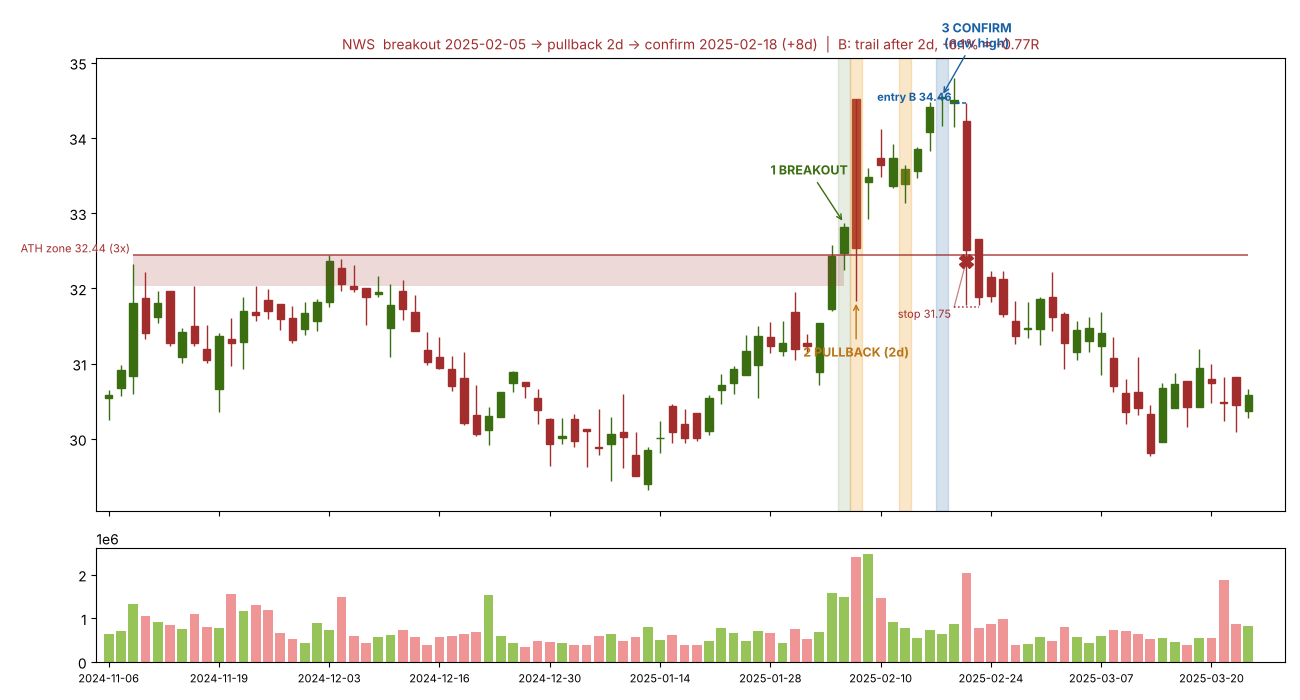
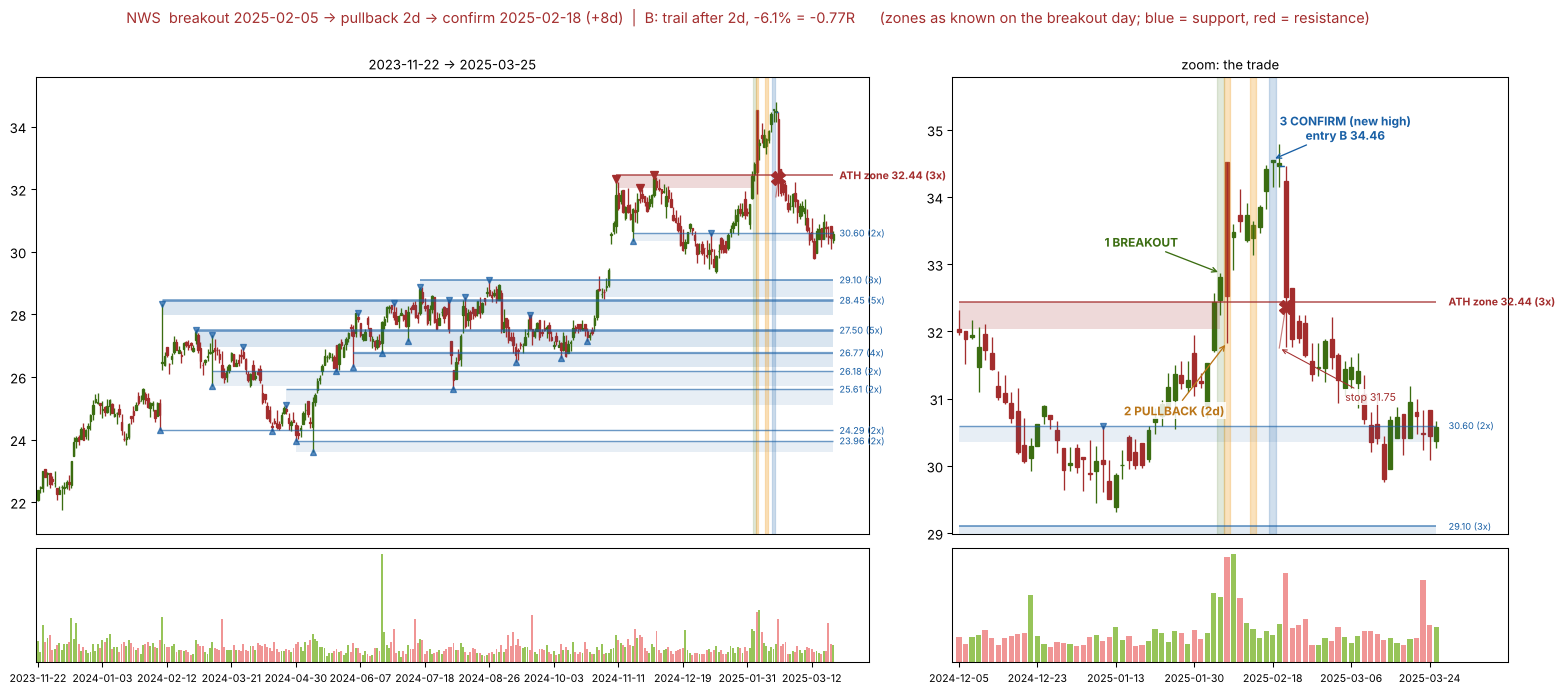
sr_retest_charts: ~15 months of history with all known S/R zones plus a zoom panel on the trade
Claude-Session: https://claude.ai/code/session_0198pJXsk3fxhgSngvdqQB7w

diff --git a/sr_retest_charts.py b/sr_retest_charts.py
@@ -4,7 +4,8 @@ sr_retest_charts.py - גרפים לדוגמה של פריצת שיא כל הזמ
 מסמן: אזור ההתנגדות שנפרץ, יום הפריצה, נרות הפולבק, יום האישור, כניסה B, סטופ B והיציאה (סטופ נגרר 3xATR).
 המדגם אקראי (seed קבוע) מתוך הפריצות שאושרו, כדי להראות גם הצלחות וגם כישלונות ביחס האמיתי.
 
-הרצה:  python sr_retest_charts.py results_retest_900 --n 20 --out sr_charts/retest
+הרצה:  python sr_retest_charts.py results_retest_900 results_retest_600 --n 20 --out sr_charts/retest
+(גרף ארוך של ~15 חודשים עם כל האזורים כפי שהיו ידועים ביום הפריצה + חלון זום על העסקה)
 """
 import argparse
 import os
@@ -19,8 +20,10 @@ import backtest as bt  # noqa: E402
 import sr_levels as sr  # noqa: E402
 import sr_retest as rt  # noqa: E402
 
+WHITE = dict(fc="white", ec="none", alpha=0.85, pad=1)
 
-def chart(tk, date, path, before=60):
+
+def chart(tk, date, path, before=300):
     df = bt.load_history(tk)
     lv = sr.Levels(df)
     atr = lv.atr
@@ -31,52 +34,80 @@ def chart(tk, date, path, before=60):
     stop = pb_low - 0.1 * atr[tc]
     tr = bt.simulate_trade(df, tc, stop, 2.0, rt.HOLD, rt.TRAIL, atr, return_path=True)
     ex = tr["exit_pos"]
-    a, e = max(0, t0 - before), min(len(df), max(ex, tc + 20) + 6)
-    d = df.iloc[a:e]
-    x = lambda i: i - a
-
-    fig, (ax, axv) = plt.subplots(2, 1, figsize=(13, 7), sharex=True, gridspec_kw={"height_ratios": [4, 1]})
-    for i, (o, h, l, c) in enumerate(d[["Open", "High", "Low", "Close"]].values):
-        col = "#3B6D11" if c >= o else "#A32D2D"
-        ax.vlines(i, l, h, color=col, lw=1)
-        ax.add_patch(plt.Rectangle((i - 0.3, min(o, c)), 0.6, max(abs(c - o), 1e-6), color=col))
-    axv.bar(range(len(d)), d["Volume"], color=np.where(d["Close"] >= d["Open"], "#97C459", "#F09595"))
-    x0 = max(L["first"] - a, 0)
-    ax.fill_between([x0, x(t0)], L["bottom"], L["top"], color="#A32D2D", alpha=0.18, lw=0)
-    ax.hlines(L["top"], x0, len(d) - 1, color="#A32D2D", lw=1.2, alpha=0.8)
-    ax.text(x0, L["top"], f"ATH zone {L['top']:.2f} ({L['touches']}x) ", color="#A32D2D", fontsize=8,
-            ha="right", va="bottom")
-    ax.axvspan(x(t0) - 0.5, x(t0) + 0.5, color="#3B6D11", alpha=0.12)
-    for k in pb_days:
-        ax.axvspan(x(k) - 0.5, x(k) + 0.5, color="#EF9F27", alpha=0.25)
-    ax.axvspan(x(tc) - 0.5, x(tc) + 0.5, color="#185FA5", alpha=0.18)
-    hi = df["High"].values
-    ax.annotate("1 BREAKOUT", (x(t0), hi[t0]), xytext=(-25, 35), textcoords="offset points", ha="center",
-                color="#3B6D11", fontweight="bold", fontsize=9, arrowprops=dict(arrowstyle="->", color="#3B6D11"))
-    ax.annotate(f"2 PULLBACK ({len(pb_days)}d)", (x(pb_days[0]), df["Low"].values[pb_days[0]]), xytext=(0, -40),
-                textcoords="offset points", ha="center", color="#BA7517", fontweight="bold", fontsize=9,
-                arrowprops=dict(arrowstyle="->", color="#BA7517"))
-    ax.annotate("3 CONFIRM\n(new high)", (x(tc), hi[tc]), xytext=(25, 35), textcoords="offset points", ha="center",
-                color="#185FA5", fontweight="bold", fontsize=9, arrowprops=dict(arrowstyle="->", color="#185FA5"))
-    end = x(min(ex, len(df) - 1))
-    ax.hlines(tr["entry"], x(tc + 1), end, color="#185FA5", ls="--", lw=1.1)
-    ax.text(x(tc + 1), tr["entry"], f"entry B {tr['entry']:.2f} ", color="#185FA5", fontsize=8, ha="right",
-            va="bottom", fontweight="bold")
-    ax.hlines(stop, x(tc + 1), x(tc + 3), color="#A32D2D", ls=":", lw=1.1)
-    ax.text(x(tc + 1), stop, f"stop {stop:.2f} ", color="#A32D2D", fontsize=8, ha="right", va="top")
-    ts = np.asarray(tr["stop_path"], dtype=float)
-    ax.plot(np.arange(x(tc + 1), x(tc + 1) + len(ts)), ts, color="#A32D2D", lw=0.9, alpha=0.6)
+    ex = min(ex, len(df) - 1)
+    e = min(len(df), max(ex, tc + 20) + 6)
     win = tr["R"] > 0
-    ax.plot(end, tr["exit"], marker="X", ms=10, color="#3B6D11" if win else "#A32D2D", ls="")
-    ax.set_title(f"{tk}  breakout {df.index[t0].date()} -> pullback {len(pb_days)}d -> confirm "
-                 f"{df.index[tc].date()} (+{tc - t0}d)  |  B: {tr['exit_reason']} after {tr['bars']}d, "
-                 f"{tr['ret']:+.1%} = {tr['R']:+.2f}R", fontsize=10, color="#3B6D11" if win else "#A32D2D")
-    ax.set_xlim(-1, len(d) + 2)
-    step = max(1, len(d) // 10)
-    axv.set_xticks(range(0, len(d), step))
-    axv.set_xticklabels([z.strftime("%Y-%m-%d") for z in d.index[::step]], fontsize=8)
-    fig.tight_layout()
-    fig.savefig(path, dpi=100)
+    fig = plt.figure(figsize=(20, 8))
+    gs = fig.add_gridspec(2, 2, width_ratios=[3, 2], height_ratios=[4, 1], wspace=0.12, hspace=0.05)
+    for col_i, (a, detail) in enumerate([(max(0, t0 - before), False), (max(0, t0 - 40), True)]):
+        ax, axv = fig.add_subplot(gs[0, col_i]), fig.add_subplot(gs[1, col_i])
+        d = df.iloc[a:e]
+        x = lambda i: i - a
+        for i, (o, h, l, c) in enumerate(d[["Open", "High", "Low", "Close"]].values):
+            col = "#3B6D11" if c >= o else "#A32D2D"
+            ax.vlines(i, l, h, color=col, lw=1)
+            ax.add_patch(plt.Rectangle((i - 0.3, min(o, c)), 0.6, max(abs(c - o), 1e-6), color=col))
+        axv.bar(range(len(d)), d["Volume"], color=np.where(d["Close"] >= d["Open"], "#97C459", "#F09595"))
+        ylo, yhi = d["Low"].min(), d["High"].max()
+        pad = (yhi - ylo) * 0.06
+        # כל אזורי התמיכה/התנגדות כפי שהיו ידועים ביום הפריצה (חלון של 250 יום), עם נקודות הנגיעה
+        for Z in lv.asof(t0):
+            if Z["touches"] < sr.MIN_TOUCHES or Z["id"] == L["id"] or Z["top"] < ylo - pad or Z["bottom"] > yhi + pad:
+                continue
+            col = "#A32D2D" if Z["bottom"] > df["Close"].values[t0] else "#185FA5"
+            z0 = max(Z["first"] - a, 0)
+            ax.fill_between([z0, len(d) - 1], Z["bottom"], Z["top"], color=col,
+                            alpha=0.06 + 0.02 * min(Z["touches"], 6), lw=0)
+            ax.hlines(Z["top"], z0, len(d) - 1, color=col, lw=0.5 + 0.3 * min(Z["touches"], 6), alpha=0.6)
+            ax.text(len(d) + 0.5, Z["top"], f" {Z['top']:.2f} ({Z['touches']}x)", color=col, fontsize=7, va="center")
+            for i, p, k in Z["pts"]:
+                if i >= a:
+                    ax.plot(i - a, p, marker="v" if k == "H" else "^", color=col, ms=4, ls="", alpha=0.7)
+        for i, p, k in L["pts"]:
+            if i >= a:
+                ax.plot(i - a, p, marker="v" if k == "H" else "^", color="#A32D2D", ms=6, ls="")
+        x0 = max(L["first"] - a, 0)
+        ax.fill_between([x0, x(t0)], L["bottom"], L["top"], color="#A32D2D", alpha=0.18, lw=0)
+        ax.hlines(L["top"], x0, len(d) - 1, color="#A32D2D", lw=1.2, alpha=0.8)
+        ax.text(len(d) + 0.5, L["top"], f" ATH zone {L['top']:.2f} ({L['touches']}x)", color="#A32D2D",
+                fontsize=8, va="center", fontweight="bold")
+        ax.axvspan(x(t0) - 0.5, x(t0) + 0.5, color="#3B6D11", alpha=0.15)
+        for k in pb_days:
+            ax.axvspan(x(k) - 0.5, x(k) + 0.5, color="#EF9F27", alpha=0.3)
+        ax.axvspan(x(tc) - 0.5, x(tc) + 0.5, color="#185FA5", alpha=0.2)
+        ts = np.asarray(tr["stop_path"], dtype=float)
+        ax.plot(np.arange(x(tc + 1), x(tc + 1) + len(ts)), ts, color="#A32D2D", lw=0.9, alpha=0.6)
+        ax.hlines(tr["entry"], x(tc + 1), x(ex), color="#185FA5", ls="--", lw=1.1)
+        ax.plot(x(ex), tr["exit"], marker="X", ms=10, color="#3B6D11" if win else "#A32D2D", ls="")
+        if detail:
+            hi = df["High"].values
+            ax.annotate("1 BREAKOUT", (x(t0), hi[t0]), xytext=(-60, 20), textcoords="offset points", ha="center",
+                        color="#3B6D11", fontweight="bold", fontsize=9, arrowprops=dict(arrowstyle="->", color="#3B6D11"), bbox=WHITE)
+            ax.annotate(f"2 PULLBACK ({len(pb_days)}d)", (x(pb_days[0]), df["Low"].values[pb_days[0]]),
+                        xytext=(-40, -55), textcoords="offset points", ha="center", color="#BA7517", fontweight="bold",
+                        fontsize=9, arrowprops=dict(arrowstyle="->", color="#BA7517"), bbox=WHITE)
+            ax.annotate(f"3 CONFIRM (new high)\nentry B {tr['entry']:.2f}", (x(tc), hi[tc]), xytext=(55, 15),
+                        textcoords="offset points", ha="center", color="#185FA5", fontweight="bold", fontsize=9,
+                        arrowprops=dict(arrowstyle="->", color="#185FA5"), bbox=WHITE)
+            ax.annotate(f"stop {stop:.2f}", (x(tc + 1), stop), xytext=(50, -40), textcoords="offset points",
+                        color="#A32D2D", fontsize=8, arrowprops=dict(arrowstyle="->", color="#A32D2D", lw=0.8), bbox=WHITE)
+            ax.set_title("zoom: the trade", fontsize=10)
+        else:
+            fig.suptitle(f"{tk}  breakout {df.index[t0].date()} -> pullback {len(pb_days)}d -> confirm "
+                         f"{df.index[tc].date()} (+{tc - t0}d)  |  B: {tr['exit_reason']} after {tr['bars']}d, "
+                         f"{tr['ret']:+.1%} = {tr['R']:+.2f}R      (zones as known on the breakout day; "
+                         f"blue = support, red = resistance)", fontsize=11, color="#3B6D11" if win else "#A32D2D",
+                         y=0.97)
+            ax.set_title(f"{df.index[a].date()} -> {df.index[e - 1].date()}", fontsize=10)
+        ax.set_ylim(ylo - pad, yhi + pad * (3 if detail else 1))
+        ax.set_xlim(-1, len(d) + (14 if not detail else 10))
+        axv.set_xlim(ax.get_xlim())
+        ax.set_xticks([])
+        step = max(1, len(d) // (12 if not detail else 6))
+        axv.set_xticks(range(0, len(d), step))
+        axv.set_xticklabels([z.strftime("%Y-%m-%d") for z in d.index[::step]], fontsize=8)
+        axv.set_yticks([])
+    fig.savefig(path, dpi=95, bbox_inches="tight")
     plt.close(fig)
     return tr["R"]
 
